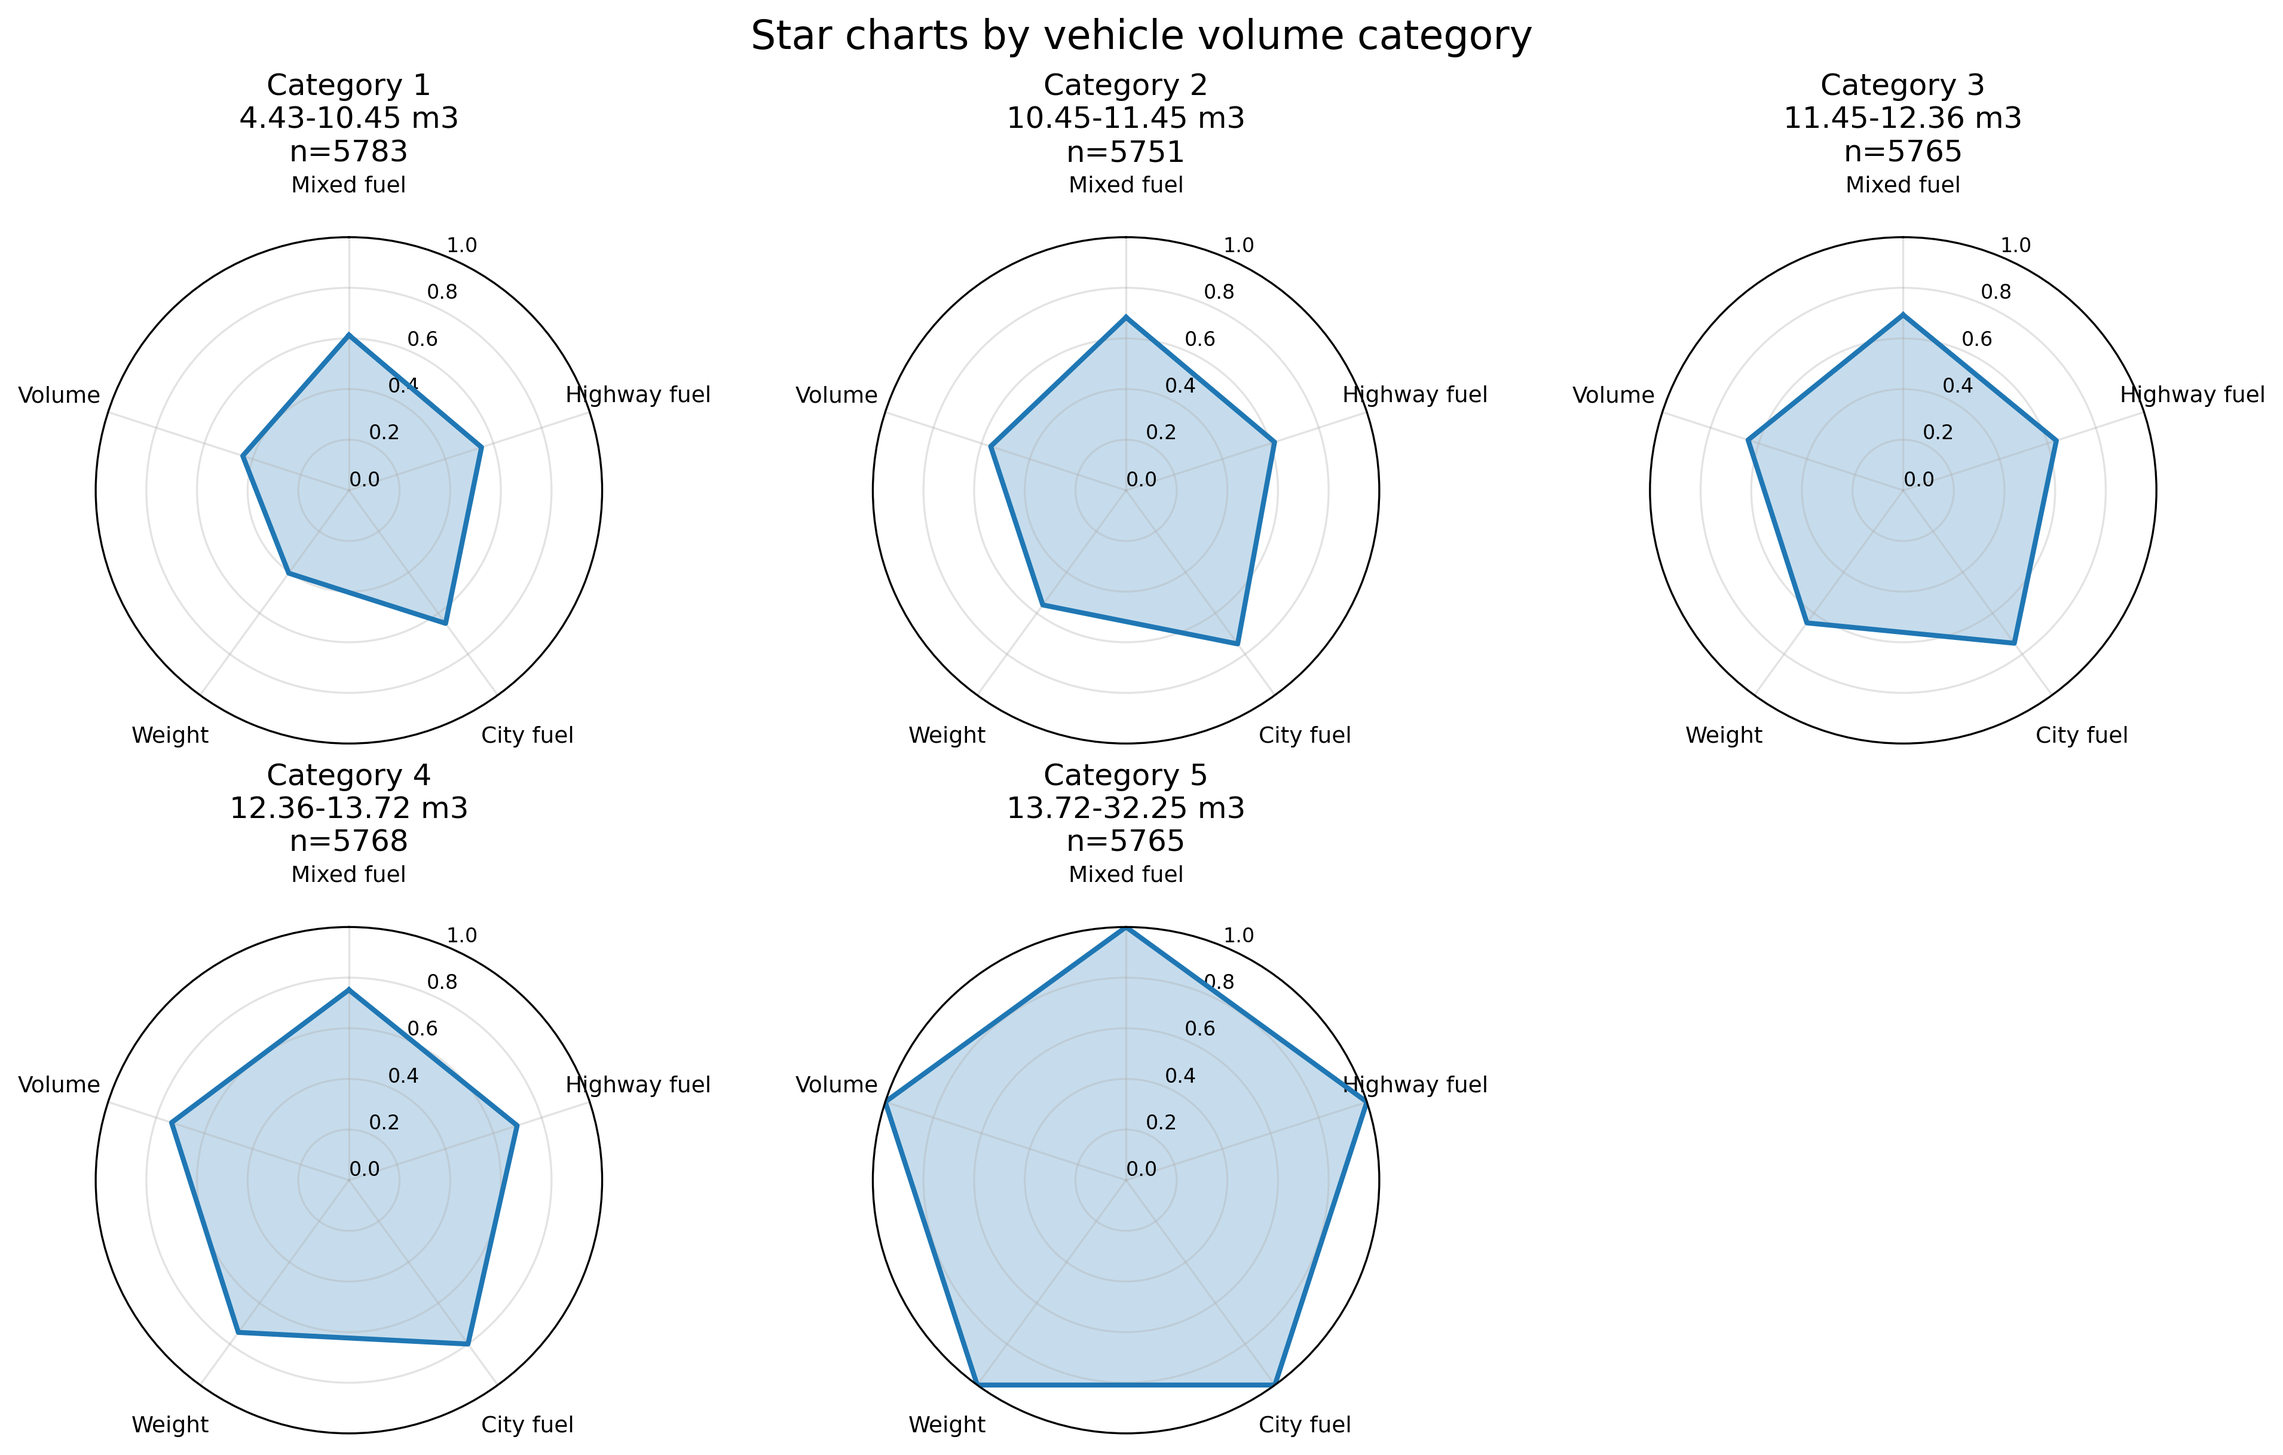
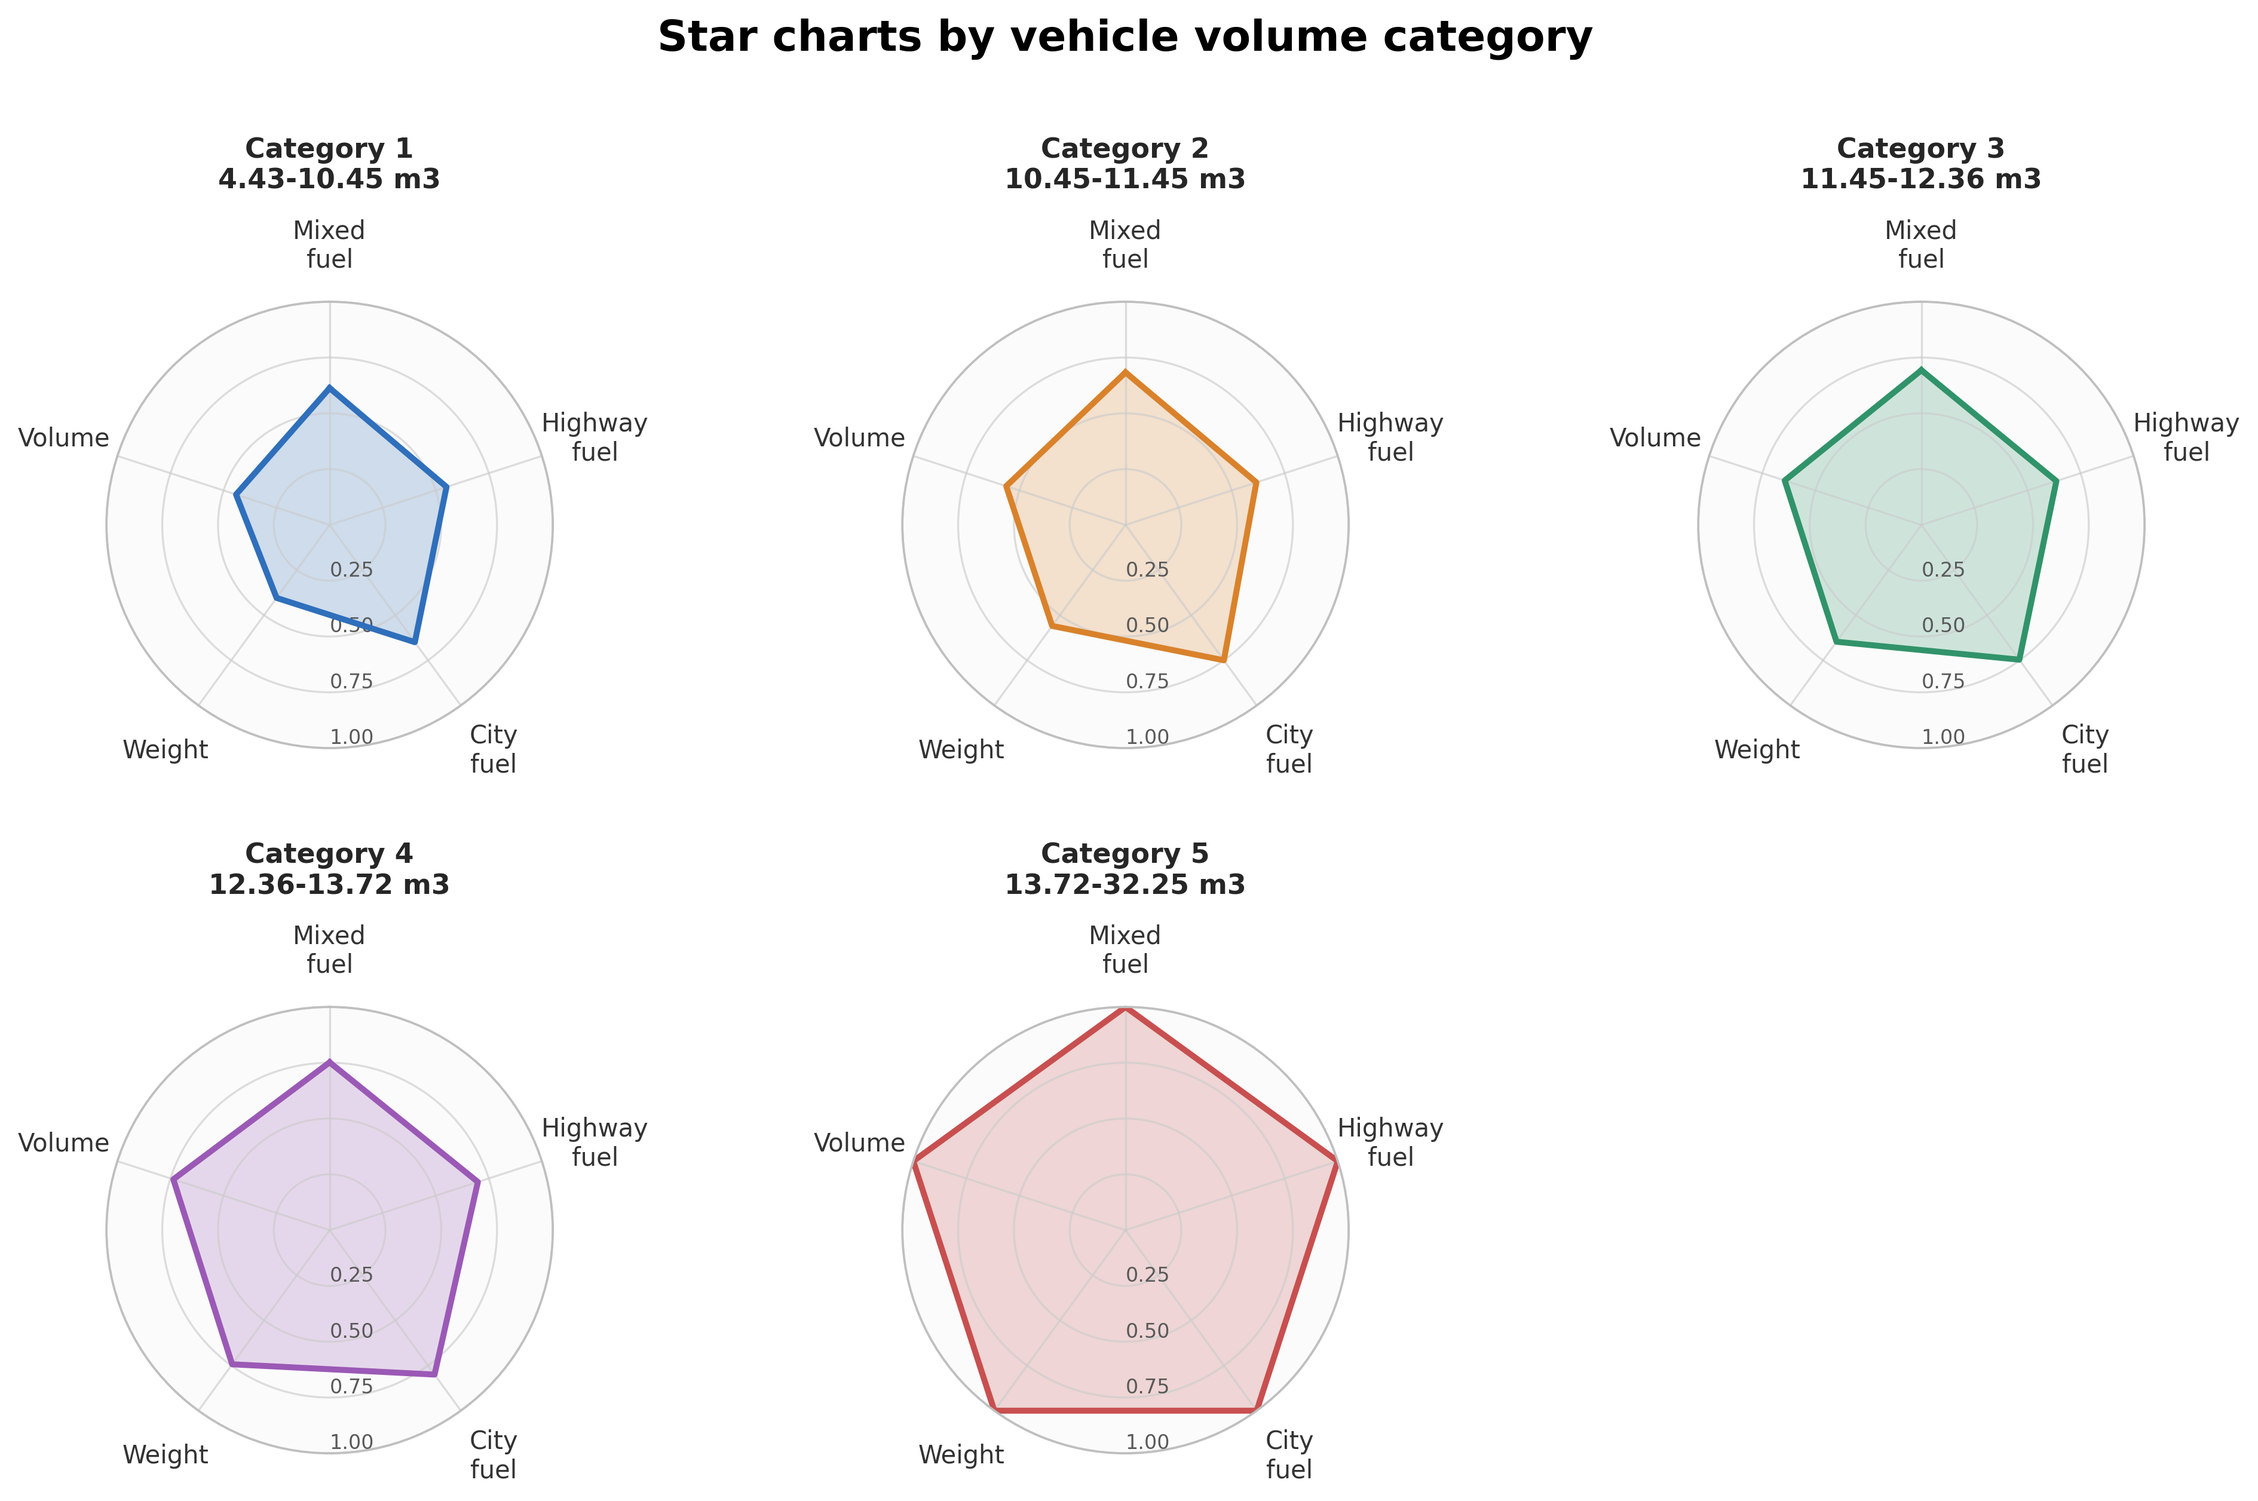
je push

diff --git a/u3.py b/u3.py
@@ -1,4 +1,3 @@
-import json
 import pandas as pd
 import numpy as np
 import matplotlib.pyplot as plt
@@ -45,9 +44,9 @@ plt_vars = [
     "volume__m3",
 ]
 axis_labels = [
-    "Mixed fuel",
-    "Highway fuel",
-    "City fuel",
+    "Mixed\nfuel",
+    "Highway\nfuel",
+    "City\nfuel",
     "Weight",
     "Volume",
 ]
@@ -64,16 +63,20 @@ def configure_star_axis(ax):
     angles = np.linspace(0, 2 * np.pi, len(plt_vars), endpoint=False).tolist()
     angles += angles[:1]
 
+    ax.set_facecolor("#fbfbfb")
     ax.set_theta_offset(np.pi / 2)
     ax.set_theta_direction(-1)
     ax.set_xticks(angles[:-1])
     ax.set_xticklabels(axis_labels)
     ax.set_ylim(0, 1)
-    ax.set_yticks(np.linspace(0, 1, 6))
-    ax.set_yticklabels([f"{value:.1f}" for value in np.linspace(0, 1, 6)])
-    ax.tick_params(axis="x", pad=10, labelsize=9)
+    ax.set_yticks([0.25, 0.50, 0.75, 1.00])
+    ax.set_yticklabels(["0.25", "0.50", "0.75", "1.00"], color="0.35")
+    ax.set_rlabel_position(180)
+    ax.tick_params(axis="x", pad=12, labelsize=10, colors="0.20")
     ax.tick_params(axis="y", labelsize=8)
-    ax.grid(alpha=0.35)
+    ax.grid(color="0.80", linewidth=0.8, alpha=0.65)
+    ax.spines["polar"].set_color("0.75")
+    ax.spines["polar"].set_linewidth(0.9)
     return angles
 
 
@@ -119,35 +122,47 @@ def aggregate_by_category(category_column):
 
 
 def plot_categories(df_normalized, title, category_unit, value_format, output_path):
-    columns = 3
+    colors = ["#2f6fbb", "#d9822b", "#31936a", "#9b59b6", "#c84f4f"]
+    columns = 3 if len(df_normalized) >= 5 else 2
     rows = int(np.ceil(len(df_normalized) / columns))
     fig, axes = plt.subplots(
         rows,
         columns,
-        figsize=(13, 8),
-        constrained_layout=True,
+        figsize=(13.5, 8.8) if columns == 3 else (11, 9),
         subplot_kw={"polar": True},
     )
+    fig.subplots_adjust(
+        left=0.06,
+        right=0.94,
+        top=0.80,
+        bottom=0.07,
+        wspace=0.48,
+        hspace=0.58,
+    )
+    fig.patch.set_facecolor("white")
     axes = np.array(axes).reshape(-1)
 
-    for ax, (_, row) in zip(axes, df_normalized.iterrows()):
+    for ax, (plot_index, row) in zip(axes, df_normalized.iterrows()):
         angles = configure_star_axis(ax)
         values = row[plt_vars].tolist()
         values += values[:1]
-        line, = ax.plot(angles, values, linewidth=2)
-        ax.fill(angles, values, alpha=0.25, color=line.get_color())
+        color = colors[plot_index % len(colors)]
+        ax.plot(angles, values, linewidth=2.4, color=color)
+        ax.fill(angles, values, alpha=0.22, color=color)
         ax.set_title(
             f"{row['category']}\n"
             f"{value_format.format(row['min_category_value'])}-"
-            f"{value_format.format(row['max_category_value'])} {category_unit}\n"
-            f"n={int(row['cars_count'])}",
-            y=1.12,
+            f"{value_format.format(row['max_category_value'])} {category_unit}",
+            y=1.22,
+            fontsize=11,
+            fontweight="semibold",
+            color="0.15",
         )
 
     for ax in axes[len(df_normalized):]:
         ax.set_visible(False)
 
-    fig.suptitle(title, fontsize=16)
+    fig.suptitle(title, fontsize=17, fontweight="semibold", y=0.98)
     fig.savefig(output_path, dpi=300, bbox_inches="tight")
     plt.show()
 
@@ -246,49 +261,9 @@ def plot_vehicle_ownership_growth(output_path):
     plt.show()
 
 
-def load_passenger_car_vehicle_km(start_year=2013, end_year=2020):
-    rows = []
-    with open("series.jsonl") as file:
-        for line in file:
-            series = json.loads(line)
-            freq, regisveh, unit, vehicle, geo = series["dimensions"]
-            if (freq, regisveh, unit, vehicle) != ("A", "TERNAT_REG", "MIO_VKM", "CAR"):
-                continue
-
-            for period, value, _, _ in series["observations"][1:]:
-                rows.append(
-                    {
-                        "geo": geo,
-                        "year": int(period),
-                        "vehicle_km_million": float(value),
-                    }
-                )
-
-    vehicle_km = pd.DataFrame(rows)
-    selected_years = set(range(start_year, end_year + 1))
-    complete_geos = (
-        vehicle_km[vehicle_km["year"].isin(selected_years)]
-        .groupby("geo")["year"]
-        .nunique()
-    )
-    complete_geos = complete_geos[complete_geos.eq(len(selected_years))].index
-
-    return (
-        vehicle_km[
-            vehicle_km["geo"].isin(complete_geos)
-            & vehicle_km["year"].isin(selected_years)
-        ]
-        .groupby("year", as_index=False)
-        .agg(
-            vehicle_km_million=("vehicle_km_million", "sum"),
-            vehicle_km_countries=("geo", "nunique"),
-        )
-    )
-
-
-def plot_ownership_vs_efficiency(output_path):
-    start_year = 2013
-    end_year = 2019
+def plot_ownership_vs_efficiency(output_path, show_efficiency_gain=False):
+    start_year = 1990
+    end_year = 2020
     carhab = pd.read_csv("road_eqs_carhab_linear_2_0.csv")
     carhab["TIME_PERIOD"] = pd.to_numeric(carhab["TIME_PERIOD"], errors="coerce")
     carhab["OBS_VALUE"] = pd.to_numeric(carhab["OBS_VALUE"], errors="coerce")
@@ -313,75 +288,73 @@ def plot_ownership_vs_efficiency(output_path):
         .rename(columns={"Year_from": "year"})
     )
     efficiency["year"] = efficiency["year"].astype(int)
-    vehicle_km = load_passenger_car_vehicle_km(start_year, end_year)
 
-    comparison = ownership.merge(efficiency, on="year", how="inner").merge(vehicle_km, on="year", how="inner")
+    comparison = ownership.merge(efficiency, on="year", how="inner")
     comparison = comparison[(comparison["year"] >= start_year) & (comparison["year"] <= end_year)]
     comparison = comparison[comparison["models_count"] >= 100].sort_values("year")
 
     baseline = comparison.iloc[0]
     comparison["vehicle_growth_index"] = comparison["cars_per_1000"] / baseline["cars_per_1000"]
-    comparison["vehicle_km_index"] = (
-        comparison["vehicle_km_million"] / baseline["vehicle_km_million"]
-    )
     comparison["efficiency_gain_index"] = (
         baseline["median_fuel_l_100km"] / comparison["median_fuel_l_100km"]
     )
-    comparison["vkm_adjusted_consumption_proxy"] = (
-        comparison["vehicle_km_index"] / comparison["efficiency_gain_index"]
+    comparison["relative_fuel_consumption_index"] = (
+        comparison["median_fuel_l_100km"] / baseline["median_fuel_l_100km"]
+    )
+    comparison["ownership_adjusted_consumption_proxy"] = (
+        comparison["vehicle_growth_index"]
+        * comparison["relative_fuel_consumption_index"]
     )
 
     first = comparison.iloc[0]
     last = comparison.iloc[-1]
 
-    fig, ax = plt.subplots(figsize=(14, 7))
-    fig.subplots_adjust(left=0.08, right=0.72, top=0.86, bottom=0.14)
+    fig, (ax, ax_summary) = plt.subplots(
+        1,
+        2,
+        figsize=(15, 7),
+        gridspec_kw={"width_ratios": [4.5, 1.55]},
+    )
+    fig.subplots_adjust(left=0.08, right=0.96, top=0.86, bottom=0.14, wspace=0.56)
 
     ax.axhline(1, color="0.25", linewidth=1, linestyle=":", label=f"{int(first['year'])} baseline")
     ax.plot(
         comparison["year"],
         comparison["vehicle_growth_index"],
         color="#d62728",
-        linewidth=2,
-        alpha=0.8,
-        label="Vehicle ownership: cars / 1,000 inhabitants",
-    )
-    ax.plot(
-        comparison["year"],
-        comparison["vehicle_km_index"],
-        color="#ff7f0e",
         linewidth=3,
-        label="Passenger-car traffic: vehicle-km",
+        label="Vehicle ownership index",
     )
+    secondary_column = "efficiency_gain_index" if show_efficiency_gain else "relative_fuel_consumption_index"
+    secondary_label = "Efficiency index: 1990 fuel use / yearly fuel use" if show_efficiency_gain else "Fuel use index: yearly fuel use / 1990 fuel use"
+    secondary_annotation = "efficiency index" if show_efficiency_gain else "fuel use index"
     ax.plot(
         comparison["year"],
-        comparison["efficiency_gain_index"],
+        comparison[secondary_column],
         color="#2ca02c",
         linewidth=3,
-        label="Efficiency gain: lower L/100 km",
+        label=secondary_label,
     )
     ax.plot(
         comparison["year"],
-        comparison["vkm_adjusted_consumption_proxy"],
+        comparison["ownership_adjusted_consumption_proxy"],
         color="#1f77b4",
         linewidth=3,
         linestyle="--",
-        label="Combined proxy: vehicle-km x fuel consumption",
+        label="Net effect: ownership index x fuel use index",
     )
     ax.fill_between(
         comparison["year"],
         1,
-        comparison["vkm_adjusted_consumption_proxy"],
-        where=comparison["vkm_adjusted_consumption_proxy"] >= 1,
+        comparison["ownership_adjusted_consumption_proxy"],
+        where=comparison["ownership_adjusted_consumption_proxy"] >= 1,
         color="#1f77b4",
         alpha=0.12,
-        label=f"Remaining pressure above {int(first['year'])}",
     )
-
     ax.annotate(
         f"x{last['vehicle_growth_index']:.2f}\nmore vehicles",
         xy=(last["year"], last["vehicle_growth_index"]),
-        xytext=(1.04, last["vehicle_growth_index"]),
+        xytext=(1.035, last["vehicle_growth_index"]),
         textcoords=ax.get_yaxis_transform(),
         arrowprops={"arrowstyle": "->", "color": "#d62728"},
         color="#d62728",
@@ -391,21 +364,9 @@ def plot_ownership_vs_efficiency(output_path):
         annotation_clip=False,
     )
     ax.annotate(
-        f"x{last['vehicle_km_index']:.2f}\nvehicle-km",
-        xy=(last["year"], last["vehicle_km_index"]),
-        xytext=(1.04, last["vehicle_km_index"]),
-        textcoords=ax.get_yaxis_transform(),
-        arrowprops={"arrowstyle": "->", "color": "#ff7f0e"},
-        color="#ff7f0e",
-        fontsize=10,
-        ha="left",
-        va="center",
-        annotation_clip=False,
-    )
-    ax.annotate(
-        f"x{last['efficiency_gain_index']:.2f}\nefficiency gain",
-        xy=(last["year"], last["efficiency_gain_index"]),
-        xytext=(1.04, last["efficiency_gain_index"]),
+        f"x{last[secondary_column]:.2f}\n{secondary_annotation}",
+        xy=(last["year"], last[secondary_column]),
+        xytext=(1.035, last[secondary_column]),
         textcoords=ax.get_yaxis_transform(),
         arrowprops={"arrowstyle": "->", "color": "#2ca02c"},
         color="#2ca02c",
@@ -415,9 +376,9 @@ def plot_ownership_vs_efficiency(output_path):
         annotation_clip=False,
     )
     ax.annotate(
-        f"x{last['vkm_adjusted_consumption_proxy']:.2f}\nnet proxy",
-        xy=(last["year"], last["vkm_adjusted_consumption_proxy"]),
-        xytext=(1.04, last["vkm_adjusted_consumption_proxy"]),
+        f"x{last['ownership_adjusted_consumption_proxy']:.2f}\nnet proxy",
+        xy=(last["year"], last["ownership_adjusted_consumption_proxy"]),
+        xytext=(1.035, last["ownership_adjusted_consumption_proxy"]),
         textcoords=ax.get_yaxis_transform(),
         arrowprops={"arrowstyle": "->", "color": "#1f77b4"},
         color="#1f77b4",
@@ -428,7 +389,7 @@ def plot_ownership_vs_efficiency(output_path):
     )
 
     ax.set_title(
-        "Vehicle-km growth offsets part of efficiency gains",
+        "Efficiency improves, but vehicle ownership grows faster",
         fontsize=16,
         pad=14,
     )
@@ -436,15 +397,58 @@ def plot_ownership_vs_efficiency(output_path):
     ax.set_ylabel(f"Index ({int(first['year'])} = 1)")
     plotted_columns = [
         "vehicle_growth_index",
-        "vehicle_km_index",
-        "efficiency_gain_index",
-        "vkm_adjusted_consumption_proxy",
+        secondary_column,
+        "ownership_adjusted_consumption_proxy",
     ]
-    y_min = max(0.9, comparison[plotted_columns].min().min() - 0.05)
+    y_min = max(0.65, comparison[plotted_columns].min().min() - 0.05)
     y_max = comparison[plotted_columns].max().max() + 0.08
     ax.set_ylim(y_min, y_max)
     ax.grid(alpha=0.25)
     ax.legend(loc="upper left")
+
+    summary_secondary_value = (
+        last["efficiency_gain_index"] - 1
+        if show_efficiency_gain
+        else last["relative_fuel_consumption_index"] - 1
+    )
+    summary_secondary_label = "Efficiency" if show_efficiency_gain else "Fuel/veh."
+    summary_values = [
+        last["vehicle_growth_index"] - 1,
+        summary_secondary_value,
+        last["ownership_adjusted_consumption_proxy"] - 1,
+    ]
+    summary_labels = ["Vehicles", summary_secondary_label, "Net"]
+    summary_colors = ["#d62728", "#2ca02c", "#1f77b4"]
+    y_positions = np.arange(len(summary_values))
+
+    ax_summary.axvline(0, color="0.25", linewidth=1)
+    ax_summary.barh(y_positions, summary_values, color=summary_colors, alpha=0.88)
+    ax_summary.set_yticks(y_positions)
+    ax_summary.set_yticklabels(summary_labels)
+    ax_summary.tick_params(axis="y", pad=8)
+    ax_summary.invert_yaxis()
+    ax_summary.set_title(f"{int(first['year'])} to {int(last['year'])}", fontsize=12)
+    ax_summary.set_xlabel("Change vs baseline")
+    ax_summary.grid(axis="x", alpha=0.25)
+    ax_summary.spines[["top", "right", "left"]].set_visible(False)
+
+    for y, value in zip(y_positions, summary_values):
+        x_offset = 0.035 if value >= 0 else -0.035
+        ha = "left" if value >= 0 else "right"
+        ax_summary.text(
+            value + x_offset,
+            y,
+            f"{value:+.0%}",
+            va="center",
+            ha=ha,
+            fontsize=10,
+            fontweight="semibold",
+            color="0.15",
+        )
+
+    x_min = min(summary_values + [0]) - 0.22
+    x_max = max(summary_values + [0]) + 0.24
+    ax_summary.set_xlim(x_min, x_max)
 
     fig.savefig(output_path, dpi=300, bbox_inches="tight")
     plt.show()
@@ -524,4 +528,5 @@ plot_categories(
 
 plot_vehicle_ownership_growth("vehicle_ownership_growth.png")
 plot_ownership_vs_efficiency("ownership_vs_efficiency.png")
+plot_ownership_vs_efficiency("ownership_vs_efficiency_gain.png", show_efficiency_gain=True)
 plot_fuel_consumption_debug("fuel_consumption_debug.png")
